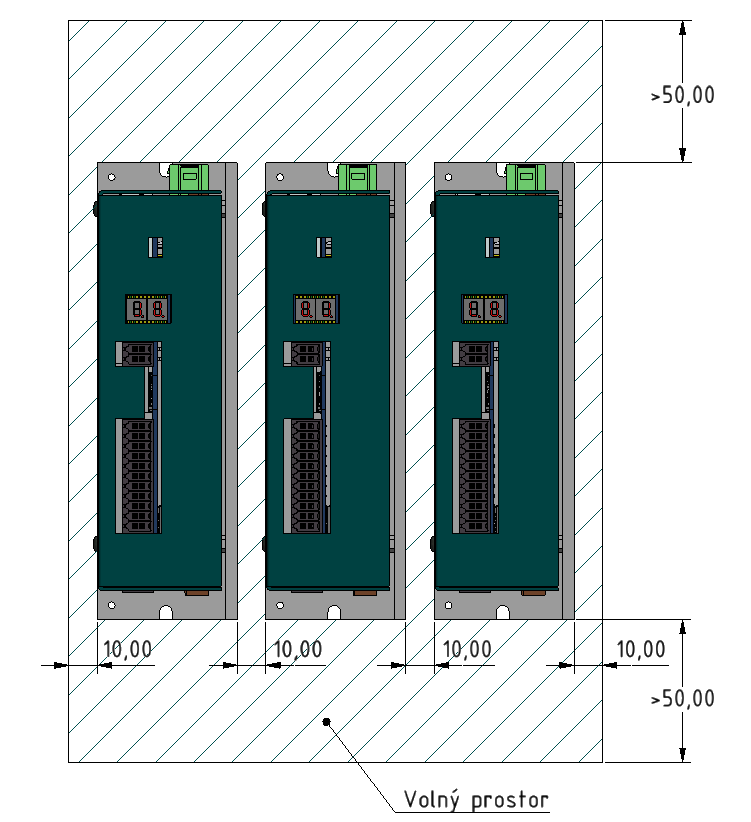
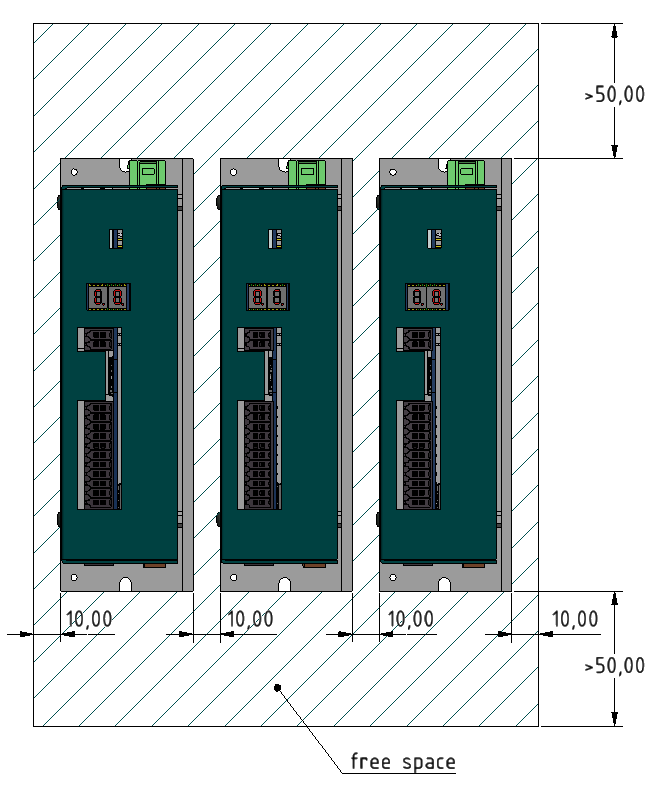
modified electric.en.md - installation of the servo - translated. removed LEDsig pngs repaired safety section in all servos

diff --git a/docs/Manual/source/md/electrical.en.md b/docs/Manual/source/md/electrical.en.md
@@ -1,66 +1,64 @@
-#**Elektrická instalace**
-##Instalace zařízení
-Během elektrické instalace servozesilovače je nutné se řídit bezpečnostními pokyny a dbát na dodržení těchto zásad:
+##Electrical installation of the device
+During the electrical installation of the servo amplifier, the safety instructions must be observed and the following principles must be observed:
 
-- Instalaci servozesilovače smí provádět pouze odborní pracovníci s příslušnou kvalifikací pro montáž elektrických zařízení.
-- Nesprávné síťové napětí, nevhodný motor nebo chybné zapojení mohou servozesilovač poškodit. Zkontrolujte, zda je servozesilovač vhodný pro daný motor. Porovnejte jmenovité napětí a proud připojovaných zařízení. Zapojte zařízení podle příslušných schémat zapojení (kap. „Popis zařízení“).  
-- Ujistěte se, že maximální přípustné jmenovité napětí na svorkách nebude překročeno o více než 10&nbsp;% ani v nejvíce nepříznivých situacích (viz ČSN&nbsp;EN&nbsp;60204-1).
-- Příliš vysoký jmenovitý proud externího jištění ohrozí kabely a zařízení. Jištění napájecího napětí a napájení ovládacích obvodů 24&nbsp;VDC musí nainstalovat uživatel.
-- Stav servozesilovače musí být monitorován tak, aby byly rozpoznány kritické situace.
-- Pro změnu nastavení servozesilovače lze používat konfigurační software. Jakékoli změny nebo zásahy, které nebyly předem konzultovány a odsouhlaseny výrobcem zařízení, způsobí zneplatnění záruky.
+- The servo amplifier may only be installed by qualified personnel for the installation of electrical equipment.
+- Improper mains voltage, incorrect motor or incorrect connection can damage the servo amplifier. Check that the servo amplifier is suitable for the motor. Compare the rated voltage and current of the connected devices. Connect the device according to the relevant wiring diagrams (chapter "Description of connectors").
+- Make sure that the maximum permissible rated voltage at the terminals is not exceeded by more than 10% even in the most unfavorable situations (see ČSN EN 60204-1).
+- Excessive current rating of the external fuse will endanger cables and equipment. The supply voltage fuse and the 24 VDC control circuit supply must be installed by the user.
+- The status of the servo amplifier must be monitored to identify critical situations.
+- Configuration software can be used to change the servo amplifier settings. Any changes or interventions not previously consulted and approved by the equipment manufacturer will void the warranty.
 
-Nainstalujte elektrický systém servozesilovače následovně:
+Install the servo amplifier electrical system as follows:
 
-- Zvolte kabely v souladu s normou ČSN&nbsp;EN&nbsp;60204.
-- Nainstalujte stínění a zemnění servozesilovače vyhovující požadavkům na elektromagnetickou kompatibilitu. Uzemněte montážní desku a kryt motoru.
-- Zapojte servozesilovač a konektory s ohledem na běžné zásady a doporučení pro potlačení elektromagnetického rušení. 
+- Select cables in accordance with the ČSN EN 60204 standard.
+- Install a servo amplifier shield and ground that meets EMC requirements. Ground the mounting plate and motor cover.
+- Connect the servo amplifier and connectors according to common principles and recommendations for suppressing electromagnetic interference.
 
-##Stínění
-###Postup zapojení kabelu pro DC BUS (napájení výkonové části) s&nbsp;připojením stínění
+##Shield connection procedure
+###Cable connection procedure for DC BUS (power supply) with shield connection:
 
-- Používejte pouze originální kabely TG Drives - pokud možno co nejkratší kabely dle vzájemné vzdálenosti a&nbsp;uspořádání jednotlivých zařízení v&nbsp;rozvaděči.
-- Z obou konců kabelu odstraňte vnější (oranžovou) izolaci v&nbsp;délce 25 až 35 mm. Dávejte pozor, abyste nepoškodili vrstvu (síťku) stínění kabelu.
-- Přehněte síťku stínění dozadu před neodizolovanou část kabelu a&nbsp;zajistěte smršťovací bužírkou.
-- Odizolujte konce všech vodičů a&nbsp;nasaďte na ně kontaktní dutinky.
-- Přibližně uprostřed kabelu odstraňte vnější izolaci v&nbsp;šířce odpovídající kabelovému oku (obvykle 15 – 20 mm). Dávejte pozor, abyste nepoškodili síťku stínění kabelu.
-- Na odizolovanou část kabelu (viz předchozí bod) nasaďte kabelové oko o&nbsp;průměru cca. 6 - 8 mm v&nbsp;sevřeném stavu.
-- Zapojte konektory dle schématu zapojení a&nbsp;připojte k&nbsp;zařízení.
-- Šroubem upevněte kabelové oko k&nbsp;základové desce rozvaděče. Kabelové oko musí po dotažení šroubu doléhat na síťku stínění, jen tak je zaručen kvalitní kontakt.
+- Use only original TG Drives cables - the shortest possible cables according to the mutual distance and arrangement of individual devices in the switchboard.
+- Remove the outer (orange) insulation of 25 to 35 mm from both ends of the cable. Be careful not to damage the shield layer of the cable.
+- Fold the shield back in front of the uninsulated part of the cable and secure with a heat shrink tubing.
+- Strip the ends of all wires and fit the contact sleeves on them.
+- Approximately in the middle of the cable, remove the outer insulation in the width corresponding to the cable eye (usually 15 - 20 mm). Be careful not to damage the cable shield.
+- On the stripped part of the cable (see previous point), place a cable lug with a diameter of approx. 6 - 8 mm in the clamped state.
+- Connect the connectors according to the wiring diagram and connect to the device.
+- Fasten the cable lug to the base plate of the switchboard with a screw. The cable lug must rest on the shield net after tightening the screw, this is the only way to ensure quality contact.
 
-![Shielding connection DC](../img/cableShielding1.png){: style="width:70%;" }
+![Shielding connection DC](../../../../source/img/cableShielding1.png){: style="width:70%;" }
 
-###Postup zapojení motorového kabelu s&nbsp;připojením stínění
+###Motor cable connection procedure with shield connection:
 
-- Ve vzdálenosti 12 – 15 cm od konce vnější izolace odstraňte izolaci kabelu v&nbsp;šířce odpovídající kabelovému oku (obvykle 15 – 20 mm). Dávejte pozor, abyste nepoškodili vrstvu (síťku) stínění kabelu.
-- Na odizolovanou část kabelu (viz předchozí bod) nasaďte kabelové oko o&nbsp;průměru cca. 6 - 8 mm v&nbsp;sevřeném stavu.
-- Zapojte konektory dle schématu zapojení a&nbsp;připojte k&nbsp;zařízení.
-- Šroubem upevněte kabelové oko k&nbsp;základové desce. Kabelové oko musí po dotažení šroubu doléhat na síťku stínění, jen tak je zaručen kvalitní kontakt.
+- At a distance of 12 - 15 cm from the end of the outer insulation, remove the cable insulation in a width corresponding to the cable lug (usually 15 - 20 mm). Be careful not to damage the cable shield (mesh).
+- Attach a cable lug with a diameter of approx. 6 - 8 mm in the clamped state.
+- Connect the connectors according to the wiring diagram and connect to the device.
+- Fasten the cable lug to the base plate with a screw. The cable lug must rest on the shield net after tightening the screw, this is the only way to ensure quality contact.
 
-![Shielding connection motor 1](../img/cableShielding2.png){: style="width:50%;" }
-![Shielding connection motor 2](../img/cableShielding3.png){: style="width:70%;" }
+![Shielding connection motor 1](../../../../source/img/cableShielding2.png){: style="width:50%;" }
+![Shielding connection motor 2](../../../../source/img/cableShielding3.png){: style="width:70%;" }
 
-###Technologie stínění
-
-Uvedené ilustrace ukazují nevhodné a&nbsp;vhodné připojení stínění:
+###Shielding technology
+The figures show an unsuitable and suitable shield connection:
 
 <br>
 
-![Shielding connection technology](../img/cableShielding4.svg){: style="width:70%;" }
+![Shielding connection technology](../../../../source/img/cableShielding4.en.png){: style="width:70%;" }
 
-###Potlačení rušení
+###Reducing EMI
 
-**Následující pokyny vám pomohou omezit problémy s elektrickým rušením ve Vaší aplikaci:**
+**The following guidelines will help you reduce electrical interference problems in your application:**
 
-- Zajistěte dobré připojení mezi díly v&nbsp;rozvaděči. Propojte zadní panel a&nbsp;dveře rozvaděče s&nbsp;tělem skříně pomocí lankových vodičů. Při zajištění uzemnění nikdy nespoléhejte na propojení přes závěsy (panty) nebo montážní šrouby. Zajistěte elektrické připojení celého zadního povrchu panelu servozesilovače. Doporučuje se použít elektricky vodivé panely, například ze slitin hliníku nebo pozinkované oceli. U kovových panelů s&nbsp;nátěrem nebo jinou povrchovou úpravou odstraňte nevodivou vrstvu za servozesilovačem.
-- Zajistěte dobré připojení na zem. Připojte rozvaděč na dobré uzemnění. Zemnicí vodiče by měly mít stejný průřez, jako napájecí vodiče, nebo o&nbsp;jeden stupeň menší.
-- Použijte kabely dodané výrobcem. Je-li použit kabel, který obsahuje také vodiče pro ovládání brzdy, musí mít vodiče pro ovládání brzdy samostatné stínění.
-- Uzemněte stínění na obou koncích. Uzemněte všechna stínění s&nbsp;co největší plochou (pro dosažení nízké impedance). Připojte je na kovový kryt konektorů nebo svorky pro stínění všude, kde je to možné. U kabelů, které vstupují do rozvaděče, připojte stínění po celém obvodu kabelu (360°). Nikdy nepřipojujte jen jeden „drátek“.
-- Kabely by se neměly prodlužovat, protože by mohlo dojít k&nbsp;narušení stínění a&nbsp;tím také k&nbsp;rušení zpracování signálu. Pro dosažení maximální délky kabelu použijte kabely s&nbsp;odpovídajícím průřezem podle ČSN EN 60204 a&nbsp;z&nbsp;doporučeného materiálu.
-- Spojujte kabely správným způsobem. Pokud je zapotřebí použít rozdělené kabely, použijte pro jejich spojení konektory s&nbsp;kovovým krytem. Zajistěte, aby byly oba kryty spojeny se stíněním po celém obvodu kabelu (360°). Žádná část kabelu by neměla zůstat nestíněná. Nikdy nespojujte rozdělený kabel pomocí svorkovnice.
-- Vodiče mezi jednotlivými servozesilovači musí být rovněž stíněné.
+- Ensure a good connection between the parts in the cabinet. Connect the rear panel and the cabinet door to the cabinet body using stranded wires. Never rely on hinges or mounting screws to provide grounding. Ensure that the entire rear surface of the servo amplifier panel is electrically connected. It is recommended to use electrically conductive panels, for example made of aluminum alloys or galvanized steel. For metal panels with a coating or other finish, remove the non-conductive layer behind the servo amplifier.
+- Ensure a good ground connection. Connect the switchboard to a good ground. The earth conductors should have the same cross-section as the supply conductors, or one degree smaller.
+- Use the cables provided by the manufacturer. If a cable is used which also contains the brake control wires, the brake control wires must have a separate shield.
+- Ground the shield at both ends. Ground all shields with as large an area as possible (to achieve low impedance). Connect them to the metal cover of the connectors or shield terminals wherever possible. For cables entering the switchboard, connect the shield around the entire cable circumference (360 °). Never connect just one "wire".
+- The cables should not be extended, as this could disturb the shielding and thus the signal processing. To achieve the maximum cable length, use cables with the appropriate cross-section according to ČSN EN 60204 and made of the recommended material.
+- Connect the cables correctly. If split cables need to be used, use connectors with a metal cover to connect them. Ensure that both covers are connected to the shield around the entire circumference of the cable (360 °). No part of the cable should remain unshielded. Never connect a split cable using a terminal block.
+- The wires between the individual servo amplifiers must also be shielded.
 
-###Vedení kabeláže
+###Recommended cabling
 
-Na níže uvedených obrázcích je zobrazeno doporučené vedení kabeláže:
+The figures below show the recommended cabling:
 
-![Cable management technology](../img/cableMan.svg){: style="width:80%;" }
+![Cable management technology](../../../../source/img/cableMan.en.png){: style="width:80%;" }

diff --git a/docs/Manual/source/md/mechMounting.en.md b/docs/Manual/source/md/mechMounting.en.md
@@ -1,20 +1,19 @@
-Před samotnou montáží servozesilovače, je potřeba vzít na vědomí, že:
+Before mounting the servo amplifier, it is necessary to note that:
 
-- Není-li servozesilovač (nebo motor) řádně uzemněn, hrozí nebezpečí úrazu elektrickým proudem.
-- Nepoužívejte montážní desky s nátěrem (nevodivé).
-- Chraňte servozesilovač před nepřípustným namáháním. Dbejte hlavně na to, aby během přepravy nebo manipulace nedošlo k ohnutí žádné části a změně izolačních vzdáleností.
-- Nedotýkejte se elektronických součástí a kontaktů.
-- Zajistěte dostatečný přívod chladného filtrovaného vzduchu do spodní části rozvaděče nebo použijte tepelný výměník.
-- Nemontujte přímo vedle servozesilovače zařízení, které vytváří magnetická pole. Silná magnetická pole mohou přímo ovlivnit interní součásti. Nainstalujte zařízení, které vytváří magnetické pole, v dostatečné vzdálenosti od servozesilovače anebo zajistěte odstínění magnetického pole.
+- If the servo amplifier (or motor) is not properly grounded, there is a risk of electric shock.
+- Do not use coated mounting plates (non-conductive).
+- Protect the servo amplifier from impermissible stress. In particular, make sure that no parts are bent or the insulation distances are changed during transport or handling.
+- Do not touch electronic components and contacts.
+- Ensure sufficient supply of cold filtered air to the bottom of the cabinet or use a heat exchanger.
+- Do not mount devices that generate magnetic fields directly next to the servo amplifier. Strong magnetic fields can directly affect internal components. Install a device that generates a magnetic field at a sufficient distance from the servo amplifier or shield the magnetic field.
 
-Nainstalujte servozesilovač dle následujících pokynů:
+Follow the instructions below to install the servo amplifier:
 
-1. Připravte místo, potřebné nářadí a ochranné pomůcky. Namontujte servozesilovač do uzavřené skříně rozvaděče. V místě instalace nesmí být materiály, které by mohly způsobit zkrat nebo korozi. Dodržujte předepsané vzdálenosti.
-2. Zkontrolujte, zda ventilaci nic nebrání, a zajistěte dodržování přípustné okolní teploty. Dodržujte požadovaný volný prostor nad a pod servozesilovačem.
-3. Pokud je v rozvaděči použit chladicí systém, umístěte jej tak, aby zkondenzovaná voda nemohla kapat na servozesilovač nebo přídavná zařízení.
-4. Namontujte servozesilovač a napájecí zdroj blízko sebe na vodivou uzemněnou montážní desku v rozvaděči.
-5. Zajistěte uzemnění servozesilovače.
+1. Prepare the site, the necessary tools and protective equipment. Install the servo amplifier in a closed cabinet. There must be no materials at the installation site that could cause short circuits or corrosion. Observe the prescribed distances.
+2. Check that nothing is blocking the ventilation and ensure that the permissible ambient temperature is observed. Observe the required free space above and below the servo amplifier.
+3. If a cooling system is used in the cabinet, position it so that condensed water cannot drip onto the servo amplifier or accessories.
+4. Mount the servo amplifier and power supply close to each other on a conductive grounded mounting plate in the cabinet.
+5. Ground the servo amplifier.
 
-!!! note "Poznámka"
-	
-	Pro dosažení deklarovaných hodnot parametrů je nutné zajistit dostatečný odvod tepla a chlazení servozesilovače.
+!!! note "Note"
+	To achieve the declared parameter values, it is necessary to ensure sufficient heat dissipation and cooling of the servo amplifier.

diff --git a/docs/Manual/source/md/STO.en.md b/docs/Manual/source/md/STO.en.md
@@ -1,21 +1,19 @@
 ##Safe Torque Off (STO)
-Funkce STO je základní bezpečnostní funkce integrovaná do servozesilovače. 
-Zajišťuje, že žádná energie vytvářející točivý moment nemůže v případě nouzového stavu dále působit na motor a současně zabraňuje neúmyslnému spuštění.   
-Vstupní svorky pro STO jsou součástí konektoru X1, prostřednictvím kterého je realizováno také napájení řídící části a spínače brzdy motoru. 
-Pro korektní elektrické zapojení servozesilovače je nutné přivést na vstupy STO A a STO B napětí +24 V DC. 
-V případě odpojení napájení od vstupu STO A nebo STO B dojde k okamžitému přerušení napájení motoru, který nebude dále pod momentem. 
-V případě, že je motor v pohybu dojde vlivem setrvačných sil k dotočení motoru do klidového stavu.
+The STO function is a basic safety function integrated in the servo amplifier.
+It ensures that no torque-generating energy can continue to act on the engine in the event of an emergency and at the same time prevents unintentional starting.
+The input terminals for STO are part of the connector X1, through which the power supply of the control part and the motor brake is also realized.
+For correct electrical connection of the servo amplifier, it is necessary to apply +24 V DC to the inputs STO A and STO B.
+If the power supply is disconnected from the STO A or STO B input, the power supply to the motor will be interrupted immediately and will no longer be below torque.
+If the motor is in motion, the motor will turn to a standstill due to inertial forces.
 
 ![STO connection](../../../../source/img/STOpins.png){: style="width:15%;" }
 
-K vstupům STO A a STO B je možné připojit uživatelský bezpečnostní systém v závislosti na konkrétní aplikaci a potřebách zákazníka.
-Po vybavení ochrany STO je nutné provést reset systému a opětovně povolit SW ENABLE. 
-Ochrana STO je redundantní a vyznačuje se vysokou mírou spolehlivosti.
+It is possible to connect a user safety system to the STO A and STO B inputs depending on the specific application and customer needs.
+After equipping the STO protection, it is necessary to perform a system reset and re-enable SW ENABLE.
+STO protection is redundant and is characterized by a high degree of reliability.
 
 ![STO schematic](../../../../source/img/STOschematic.png){: style="width:80%;" }
 
-!!! info "Norma STO"
-
-	**Systém STO (Safety Torque Off) související s bezpečností servozesilovačů posuzované typové řady TGZ splňuje podle norem ČSN EN 61508-1 ed.2, ČSN EN 61508-2 ed.2, ČSN EN 61508-6 ed.2 požadavky
-	úroveň integrity bezpečnosti SIL 3 v režimu provozu s vysokým vyžádáním, podle norem ČSN EN ISO 13849-1  požadavky kategorie 3 a úrovně vlastností PL e.**
+!!! info "STO norm"
+	System STO meets the requirements on safety level integrity SIL3 according to the standards ČSN EN 61508-1 ed.2, ČSN EN 61508-2 ed.2, ČSN EN 61508-6 ed.2 and performance level with high demand PLe according to the standard ČSN EN ISO 13849-1.
 

diff --git a/docs/Manual/CZ/TGZ/TGZ-D-48-13/md/mounting.en.md b/docs/Manual/CZ/TGZ/TGZ-D-48-13/md/mounting.en.md
@@ -1,12 +1,13 @@
-# Montáž zařízení
-## Uchycení
-L-profil umožňuje variabilní montáž měniče do rozvaděče nebo přímo na stroj. Níže jsou uvedeny rozměry a poloha jednotlivých montážních prvků.
+#Installation of the device
+##Mounting
+The L-profile allows variable mounting of the servoamplifier in the control cabinet or directly on the machine.
+Below are the dimensions and position of the individual mounting elements.
 
 ![TGZ-D-48-13 Mounting](../img/mounting.jpg)
 
 --8<-- "md/mechMounting.en.md"
 
-## Rozestupy
-U servozesilovače TGZ-D-48-13/26 je doporučeno dodržet minimální horizontální vzdálenost mezi jednotlivými zařízeními alespoň 10 mm, doporučená vertikální vzdálenost je pak minimálně 50 mm.
+##Distance
+For the TGZ-D-48-13/26 servo it is recommended to keep a minimum horizontal distance between the individual devices of at least 10 mm, the recommended vertical distance is at least 50 mm.
 
-![TGZ-D-48-13 Distance](../../../../source/img/placement1.png)
+![TGZ-D-48-13 Distance](../../../../source/img/placement1.en.png)

diff --git a/docs/Manual/source/md/safety.en.md b/docs/Manual/source/md/safety.en.md
@@ -1,5 +1,5 @@
-#Bezpečnostní funkce
+#Safety functions
 
---8<-- "CZ/md/STO.md"
+--8<-- "md/STO.en.md"
 
 <!-- zde prijdou dalsi bezepcnostni funkce, jako Safety speed apod...-->

diff --git a/docs/Manual/CZ/TGS/TGS-320-10_15/md/electric.en.md b/docs/Manual/CZ/TGS/TGS-320-10_15/md/electric.en.md
@@ -1,2 +1,2 @@
---8<-- "md/electrical.md"
+--8<-- "md/electrical.en.md"
 

diff --git a/docs/Manual/CZ/TGS/TGS-560-25_50/md/electric.en.md b/docs/Manual/CZ/TGS/TGS-560-25_50/md/electric.en.md
@@ -1,2 +1,2 @@
---8<-- "md/electrical.md"
+--8<-- "md/electrical.en.md"
 

diff --git a/docs/Manual/CZ/TGS/TGS-560-50_100/md/electric.en.md b/docs/Manual/CZ/TGS/TGS-560-50_100/md/electric.en.md
@@ -1,2 +1,2 @@
---8<-- "md/electrical.md"
+--8<-- "md/electrical.en.md"
 

diff --git a/docs/Manual/CZ/TGZ/TGZ-D-320-5_10/md/electric.en.md b/docs/Manual/CZ/TGZ/TGZ-D-320-5_10/md/electric.en.md
@@ -1,2 +1,2 @@
---8<-- "md/electrical.md"
+--8<-- "md/electrical.en.md"
 

diff --git a/docs/Manual/CZ/TGZ/TGZ-D-320-5_15/md/electric.en.md b/docs/Manual/CZ/TGZ/TGZ-D-320-5_15/md/electric.en.md
@@ -1,2 +1,2 @@
---8<-- "md/electrical.md"
+--8<-- "md/electrical.en.md"
 

diff --git a/docs/Manual/CZ/TGZ/TGZ-D-48-13/md/electric.en.md b/docs/Manual/CZ/TGZ/TGZ-D-48-13/md/electric.en.md
@@ -1,2 +1,2 @@
---8<-- "md/electrical.md"
+--8<-- "md/electrical.en.md"
 

diff --git a/docs/Manual/CZ/TGZ/TGZ-D-48-50_100/md/electric.en.md b/docs/Manual/CZ/TGZ/TGZ-D-48-50_100/md/electric.en.md
@@ -1,2 +1,2 @@
---8<-- "md/electrical.md"
+--8<-- "md/electrical.en.md"
 
